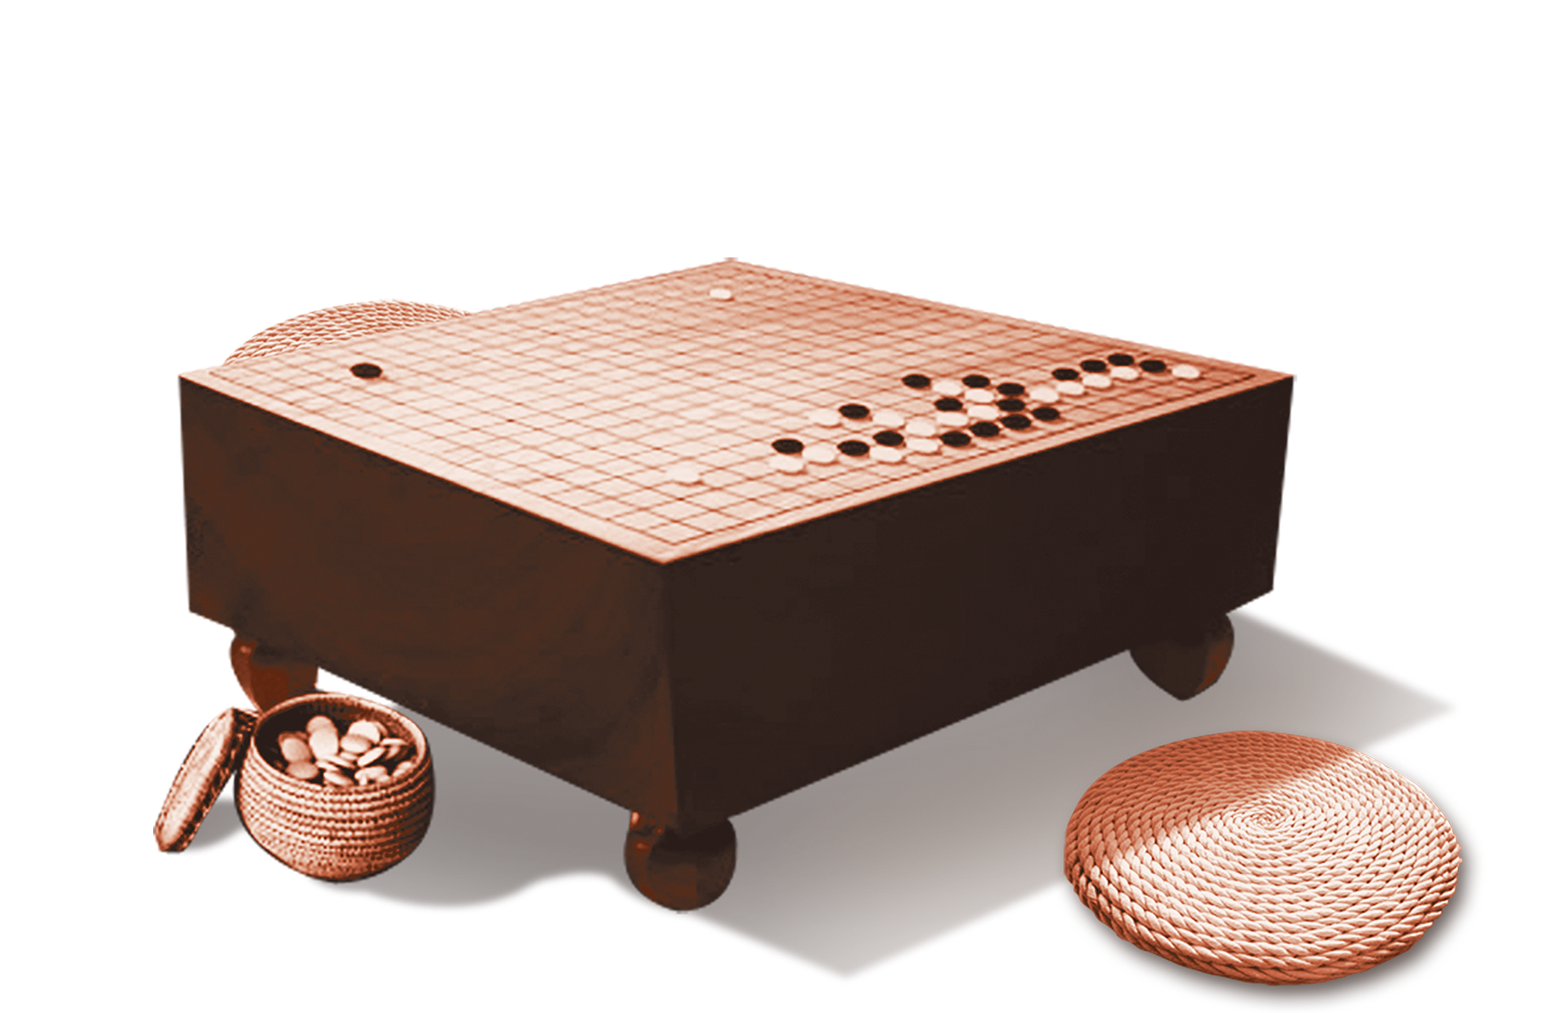
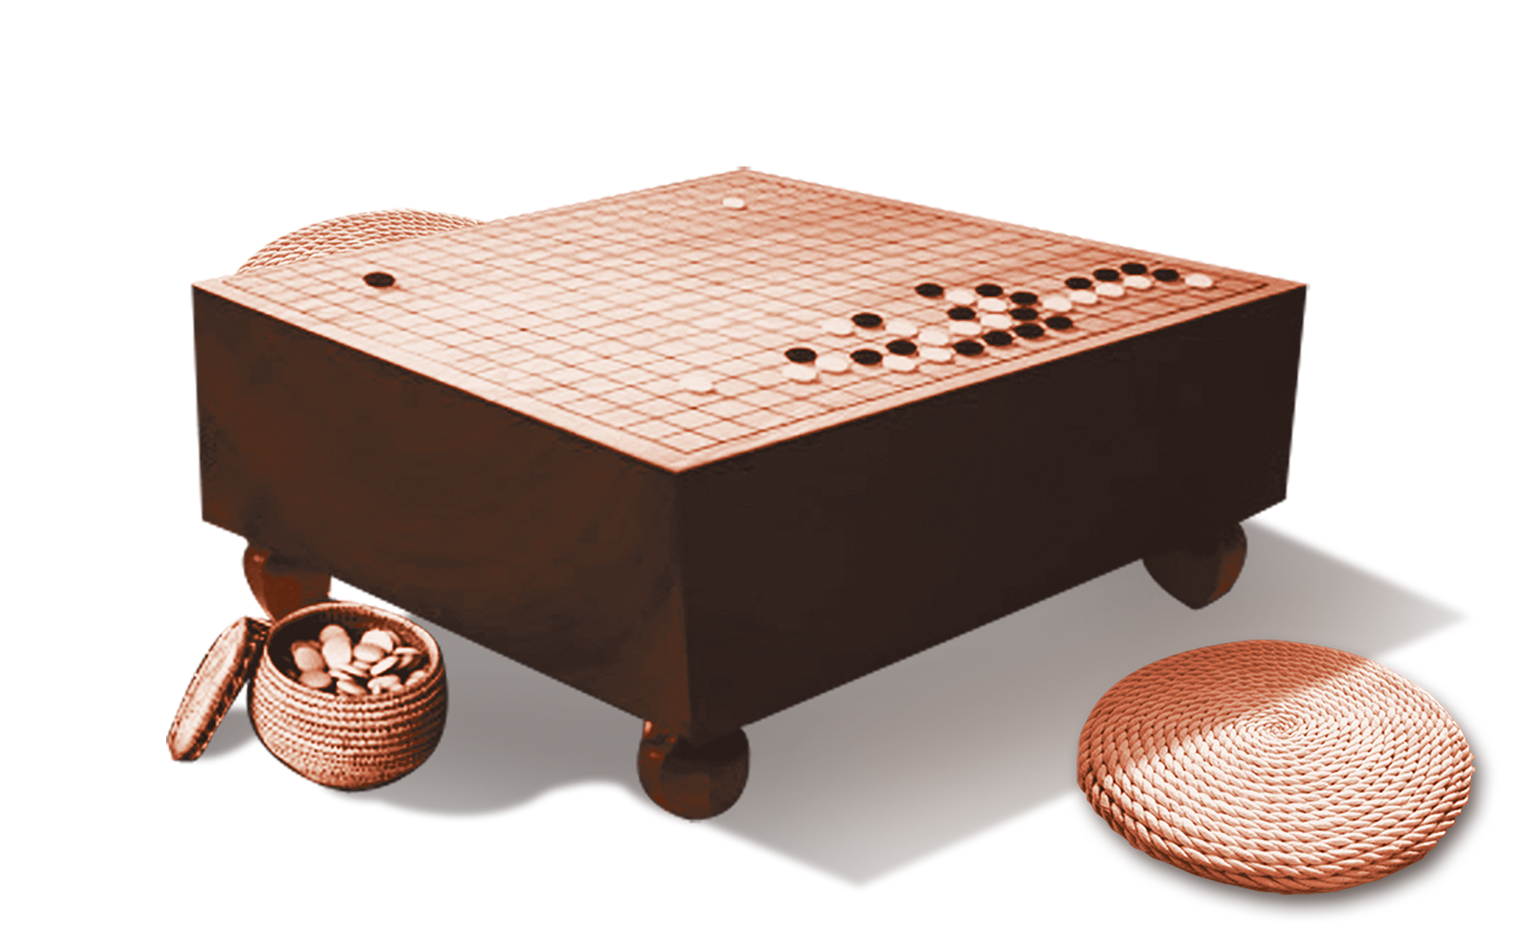
Update Index page

Changed region(s): [[0.0922, 0.1539, 0.983, 1.0]]

diff --git a/index.html b/index.html
@@ -13,32 +13,40 @@
 </head>
 
 <body>
+
+<div class="container-fluid">
 	<nav class="navbar navbar-right">
-  		<div class="container-fluid">
+ 
     		<div class="collapse navbar-collapse" id="myNavbar">
+     			<div class="navbar-header">
+     				<img class="logo" src="images/logo.png">
+     			</div>
       			<ul class="nav navbar-nav">
-        			<li><a href="index.html">HOME</a></li>
+        			<li><a href="index.html">Home</a></li>
         			<li><a href="rules.html">The Rules</a></li>
         			<li><a href="joseki.html">Joseki</a></li>
         			<li><a href="qa.html">Q&amp;A</a></li>
-        			<li><a href="contact.html">CONTACT</a></li>
+        			<li><a href="contact.html">Contact</a></li>
       			</ul>
     		</div>
-  		</div>
+  	
 	</nav>
-	<div class="container-fluid">
+	
+</div>
+<section id="sec_01">
+	<div class="container center">
 		<div class="row">
-			<div class="col-lg-2">
-				<img class="logo" src="images/logo.png">
-			</div>
-			<div class="col-lg-8 center">
-				<img class="home_main_image" src="images/qizhuo.png">
-				<img src="images/arrowdown.png">
-			</div>
-			<div class="col-lg-2"></div>
+			<h1>How to Play Go</h1>
+			<hr>
+			<img class="home_main_image" src="images/qizhuo.png">	
 		</div>
-	</div>	
-	<div class="container">	
+		<div class="row">
+			<a href="#sec_02"><img class="slide_d_btn" src="images/arrowdown.png"></a>
+		</div>
+	</div>
+</section>	
+<section id="sec_02">
+	<div class="container intro_text">	
 		<div class="row">
 			<h1>About Us</h1>
 			<p>This website gives a basic introduction on “How to Play Go”, which seeks to develop the user’s interest for a continuous study on this subject in the future.</p>
@@ -52,11 +60,14 @@
 			<p>When the game comes to the end, both sides need to confirm that there will be no more placing. The referee responsible for taking out the dead stones from the board. The following stage is to count the stones of the one side, the people who holds the black stone need to have 185 stones to win the game and vice versa. The people who holds the white stones need to have 177 stones to win the game and vice versa.</p>
 		</div>
 	</div>
+
 	<footer>
 		<div class="container-fluid">
 			<p class="copyright">&copy; Copyright 2018.</p>
 		</div>
 	</footer>
+</section>
 </body>
+<script src="site.js"></script>
 </html>
 

diff --git a/site.js b/site.js
@@ -1,0 +1,27 @@
+// JavaScript Document
+"use strict";
+
+$(document).ready(function(){
+  // Add smooth scrolling to all links
+  $("a").on('click', function(event) {
+
+    // Make sure this.hash has a value before overriding default behavior
+    if (this.hash !== "") {
+      // Prevent default anchor click behavior
+      event.preventDefault();
+
+      // Store hash
+      var hash = this.hash;
+
+      // Using jQuery's animate() method to add smooth page scroll
+      // The optional number (800) specifies the number of milliseconds it takes to scroll to the specified area
+      $('html, body').animate({
+        scrollTop: $(hash).offset().top
+      }, 800, function(){
+   
+        // Add hash (#) to URL when done scrolling (default click behavior)
+        window.location.hash = hash;
+      });
+    } // End if
+  });
+});

diff --git a/site.css b/site.css
@@ -1,5 +1,12 @@
 @charset "UTF-8";
 /* CSS Document */
+body, html, .main {
+    height: 100%;
+}
+
+section {
+    min-height: 100%;
+}
 
 body{
 	background-image:url(images/background.jpg);
@@ -11,16 +18,21 @@ body{
 	font-family: "Avenir";
 	color: #4a2d20;
 }
-
+h1{
+	font-weight: 100;
+}
 .home_main_image{
-	width: 100%;
-	height: 100%;
+	width: 70%;
+	height: 70%;
 }
 .logo{
-	height: 100%;
-	width: 100%;
+	height: 60px;
+	width: 65px;
 }
-
+.navbar-header{
+	padding-right: 20px;
+	
+}
 .navbar-default .navbar-nav > li > a:hover,
 .navbar-default .navbar-nav > li > a:focus {
     color:#B21315;
@@ -49,4 +61,7 @@ a{
 .center{
 	text-align: center;
 }
-
+.slide_d_btn{
+	height: 60px;
+	width: 130px;
+}

diff --git a/contact.html b/contact.html
@@ -1,0 +1,10 @@
+<!doctype html>
+<html>
+<head>
+<meta charset="UTF-8">
+<title>Untitled Document</title>
+</head>
+
+<body>
+</body>
+</html>

diff --git a/joseki.html b/joseki.html
@@ -1,0 +1,10 @@
+<!doctype html>
+<html>
+<head>
+<meta charset="UTF-8">
+<title>Untitled Document</title>
+</head>
+
+<body>
+</body>
+</html>

diff --git a/qa.html b/qa.html
@@ -1,0 +1,10 @@
+<!doctype html>
+<html>
+<head>
+<meta charset="UTF-8">
+<title>Untitled Document</title>
+</head>
+
+<body>
+</body>
+</html>
